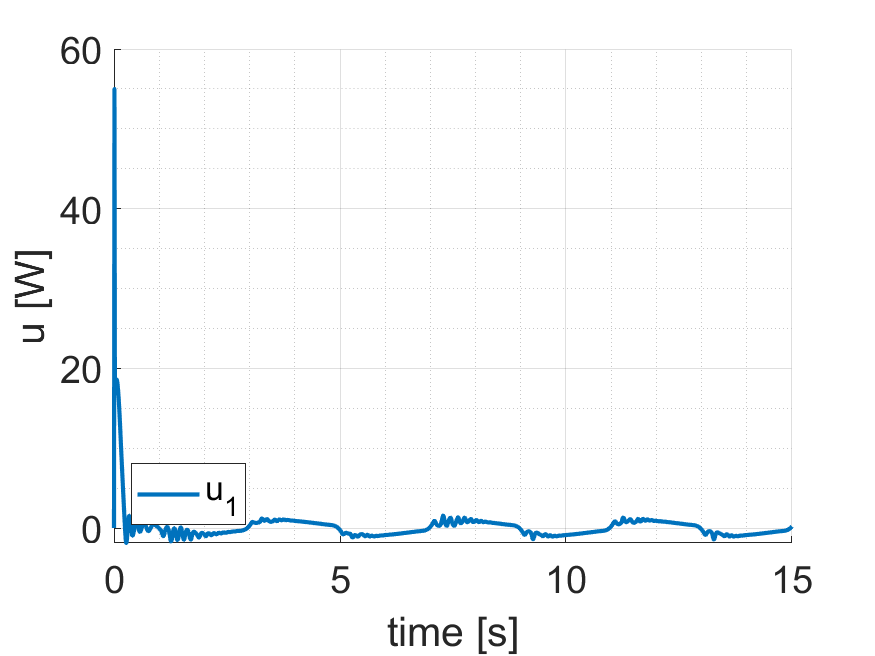
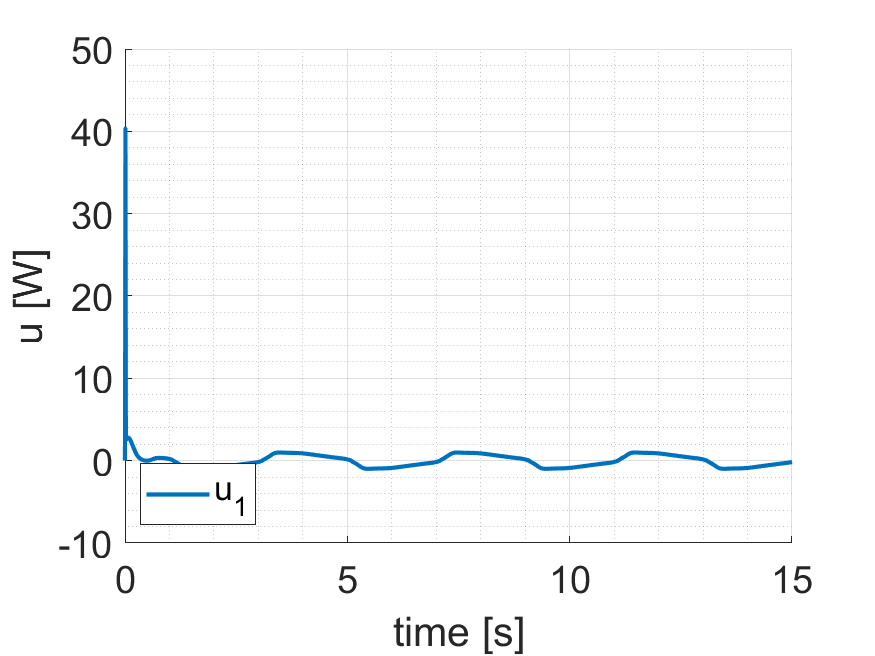
task05 both fixed

diff --git a/final_exam/task05/run.m b/final_exam/task05/run.m
@@ -37,6 +37,8 @@ task_params.noise_2_start = 0;
 task_params.noise_2_start_b = 8;
 
 % PARAMS u1
+tau_star = 0.2;
+
 b_0 = 165.81;
 a_1 = 1.351;
 a_0 = 0.4741;
@@ -108,6 +110,8 @@ theta2_ref_2 = simOut_2.get('theta2_ref');
 %paw({time}, {u2}, {'u_2'}, 'time [s]', 'u [W]', task_name, 'equilibrium_u2_v2_noise_PID_step', plot_path, true, true, {''}, 'southwest');
 %paw({time , time}, {theta_2, theta2_ref}, {'theta_2','theta_{2,ref}'}, 'time [s]', 'theta', task_name, 'equilibrium_theta2_thetaref_v2_PID_trajjectory', plot_path, true, true, {'',''}, 'southwest');
 
-paw({time_2}, {theta_1_2}, {'theta_1'}, 'time [s]', 'theta', task_name, 'equilibrium_theta1_v3_PID_trajectory', plot_path, true, true, {''}, 'southwest');
-paw({time_2}, {u1_2}, {'u_1'}, 'time [s]', 'u [W]', task_name, 'equilibrium_u1_v3_noise_PID_step', plot_path, true, true, {''}, 'southwest');
-paw({time_2 , time_2}, {theta_1_2, theta1_ref_2}, {'theta_1','theta_{1,ref}'}, 'time [s]', 'theta', task_name, 'equilibrium_theta1_thetaref_v3_PID_trajectory', plot_path, true, true, {'',''}, 'southwest');
+paw({time_2}, {theta_1_2}, {'theta_1'}, 'time [s]', 'theta', task_name, 'equilibrium_theta1_zini_v3_PID_trajectory', plot_path, true, true, {''}, 'southwest');
+paw({time_2}, {u1_2}, {'u_1'}, 'time [s]', 'u [W]', task_name, 'equilibrium_u1_zini_v3_noise_PID_step', plot_path, true, true, {''}, 'southwest');
+paw({time_2 , time_2}, {theta_1_2, theta1_ref_2}, {'theta_1','theta_{1,ref}'}, 'time [s]', 'theta', task_name, 'equilibrium_theta1_zini_thetaref_v3_PID_trajectory', plot_path, true, true, {'',''}, 'southwest');
+
+paw({time_2 , time_2, time}, {theta1_ref_2, theta_1_2, theta_1}, {'theta_{1,ref}','theta_1_{ZiNi}','theta_1_{model}'}, 'time [s]', 'theta', task_name, 'equilibrium_theta1_thetaref_v3_comparison', plot_path, true, true, {':','',''}, 'southwest');
